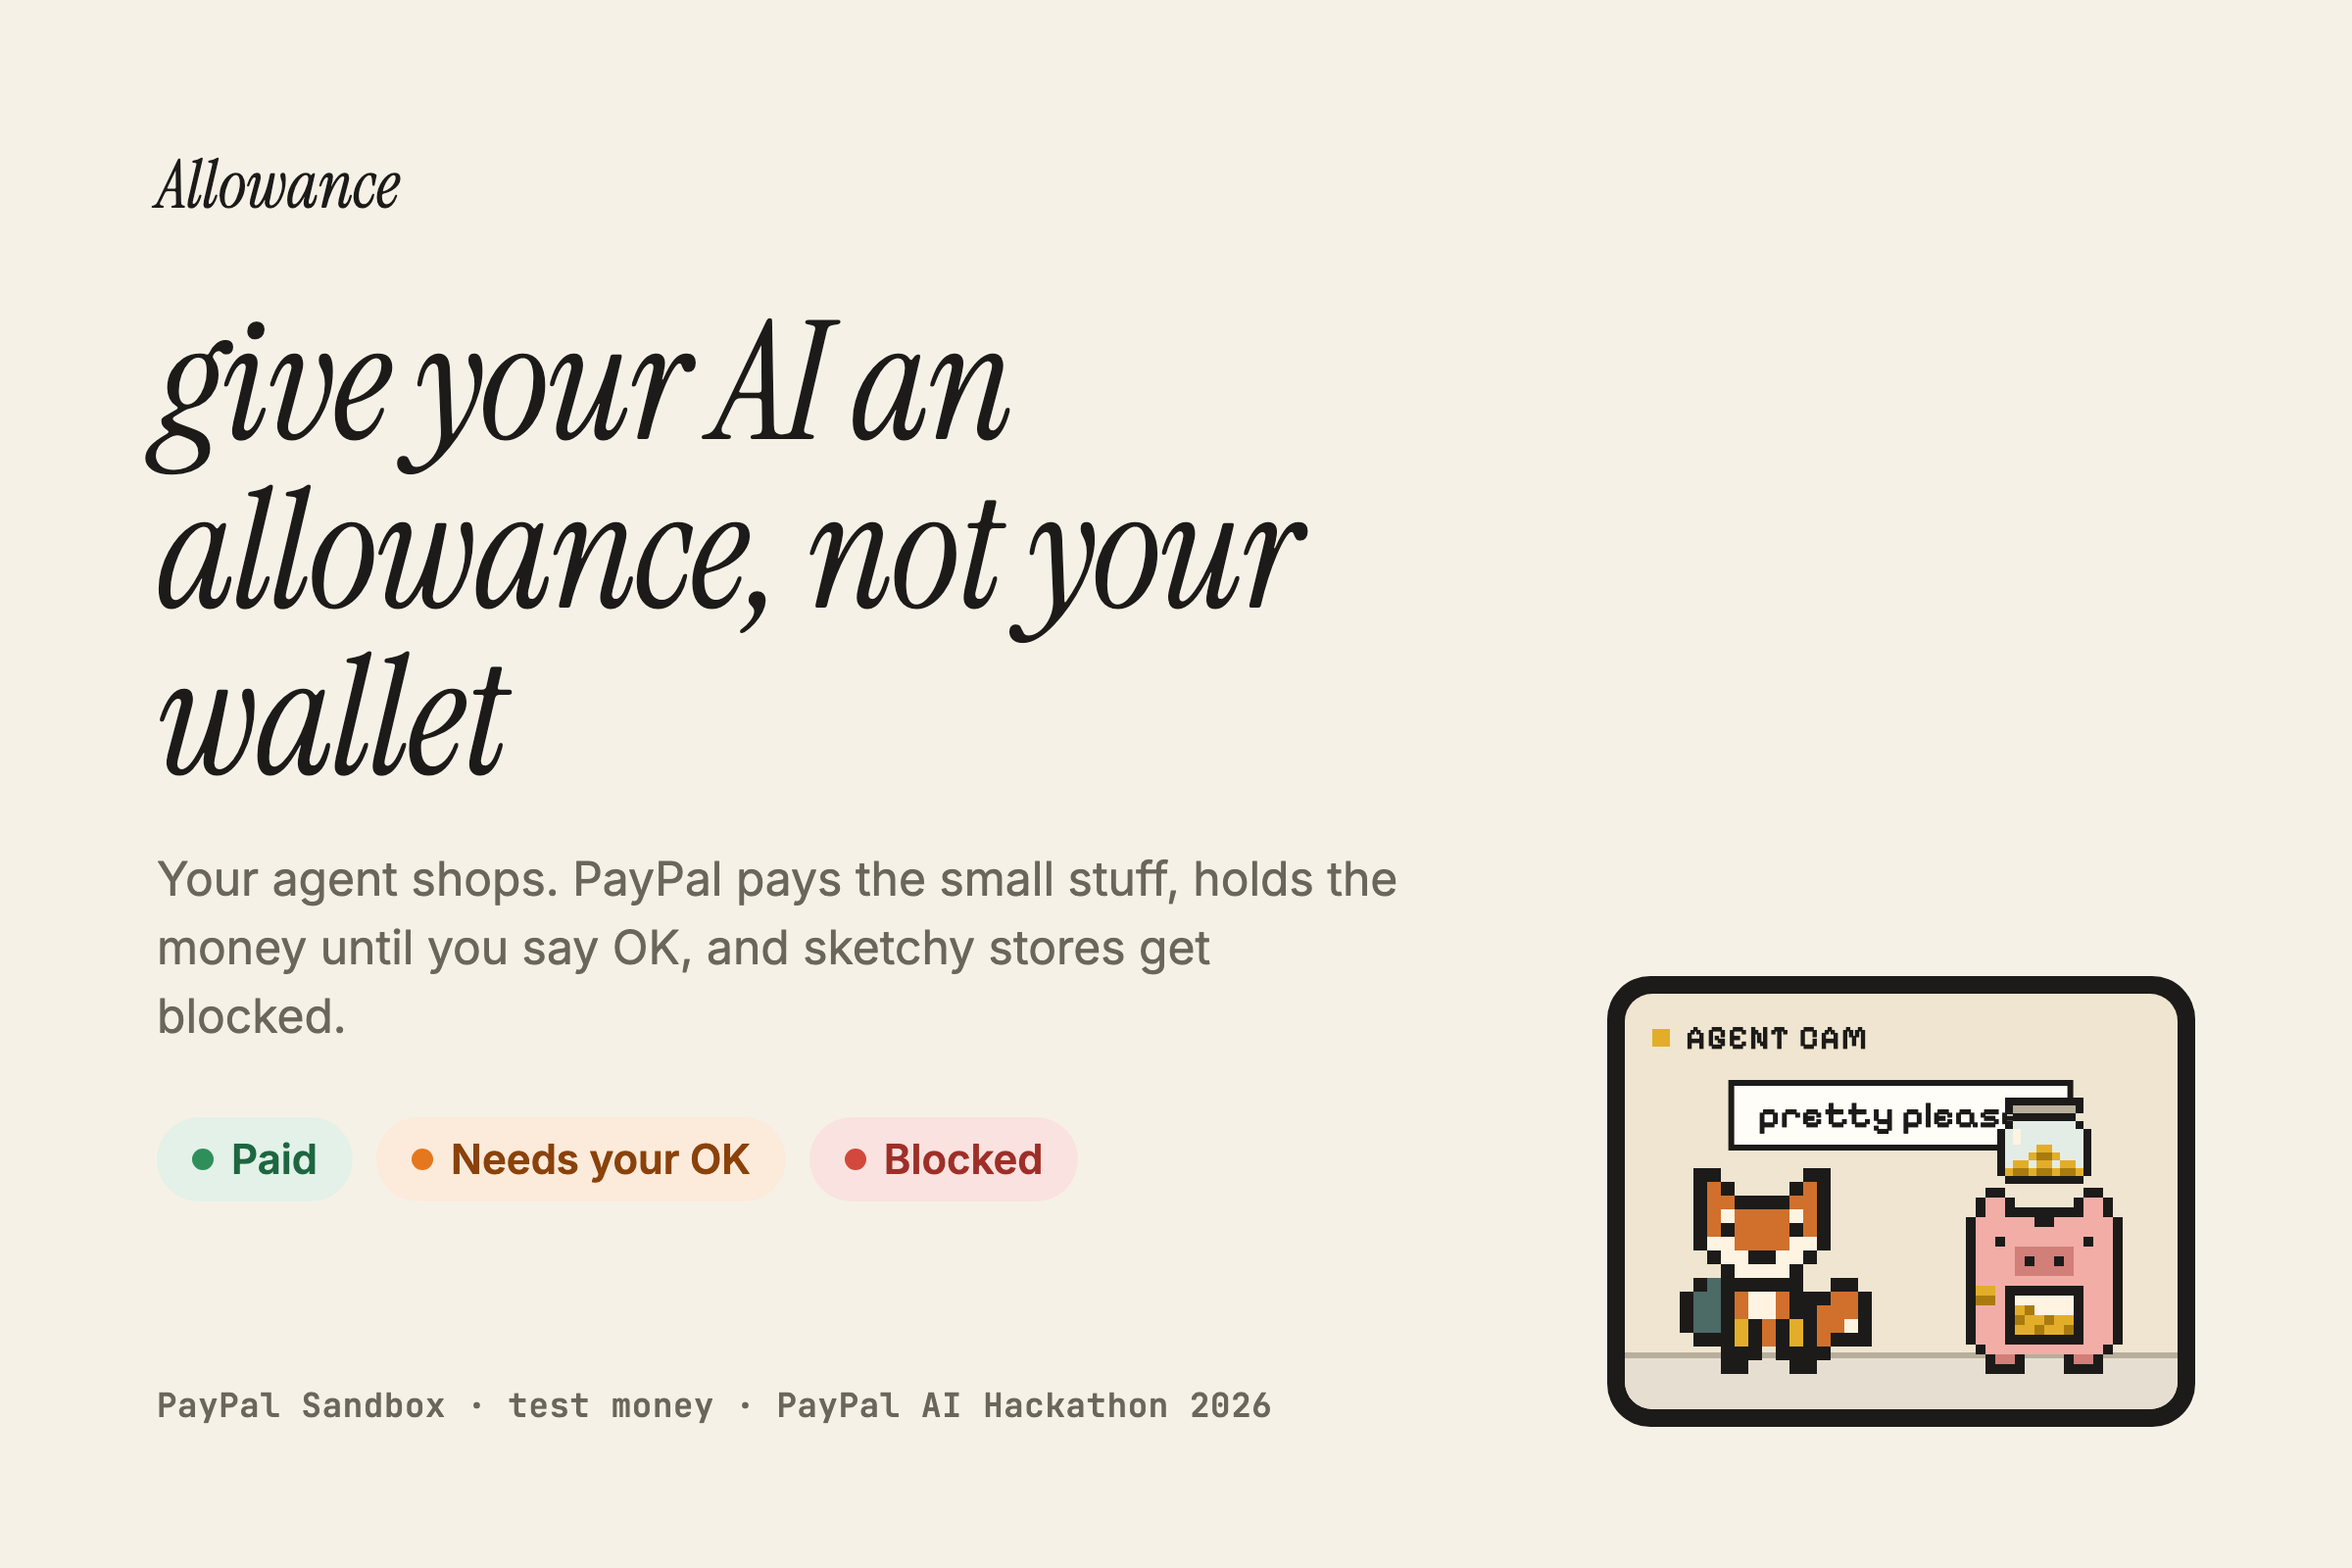
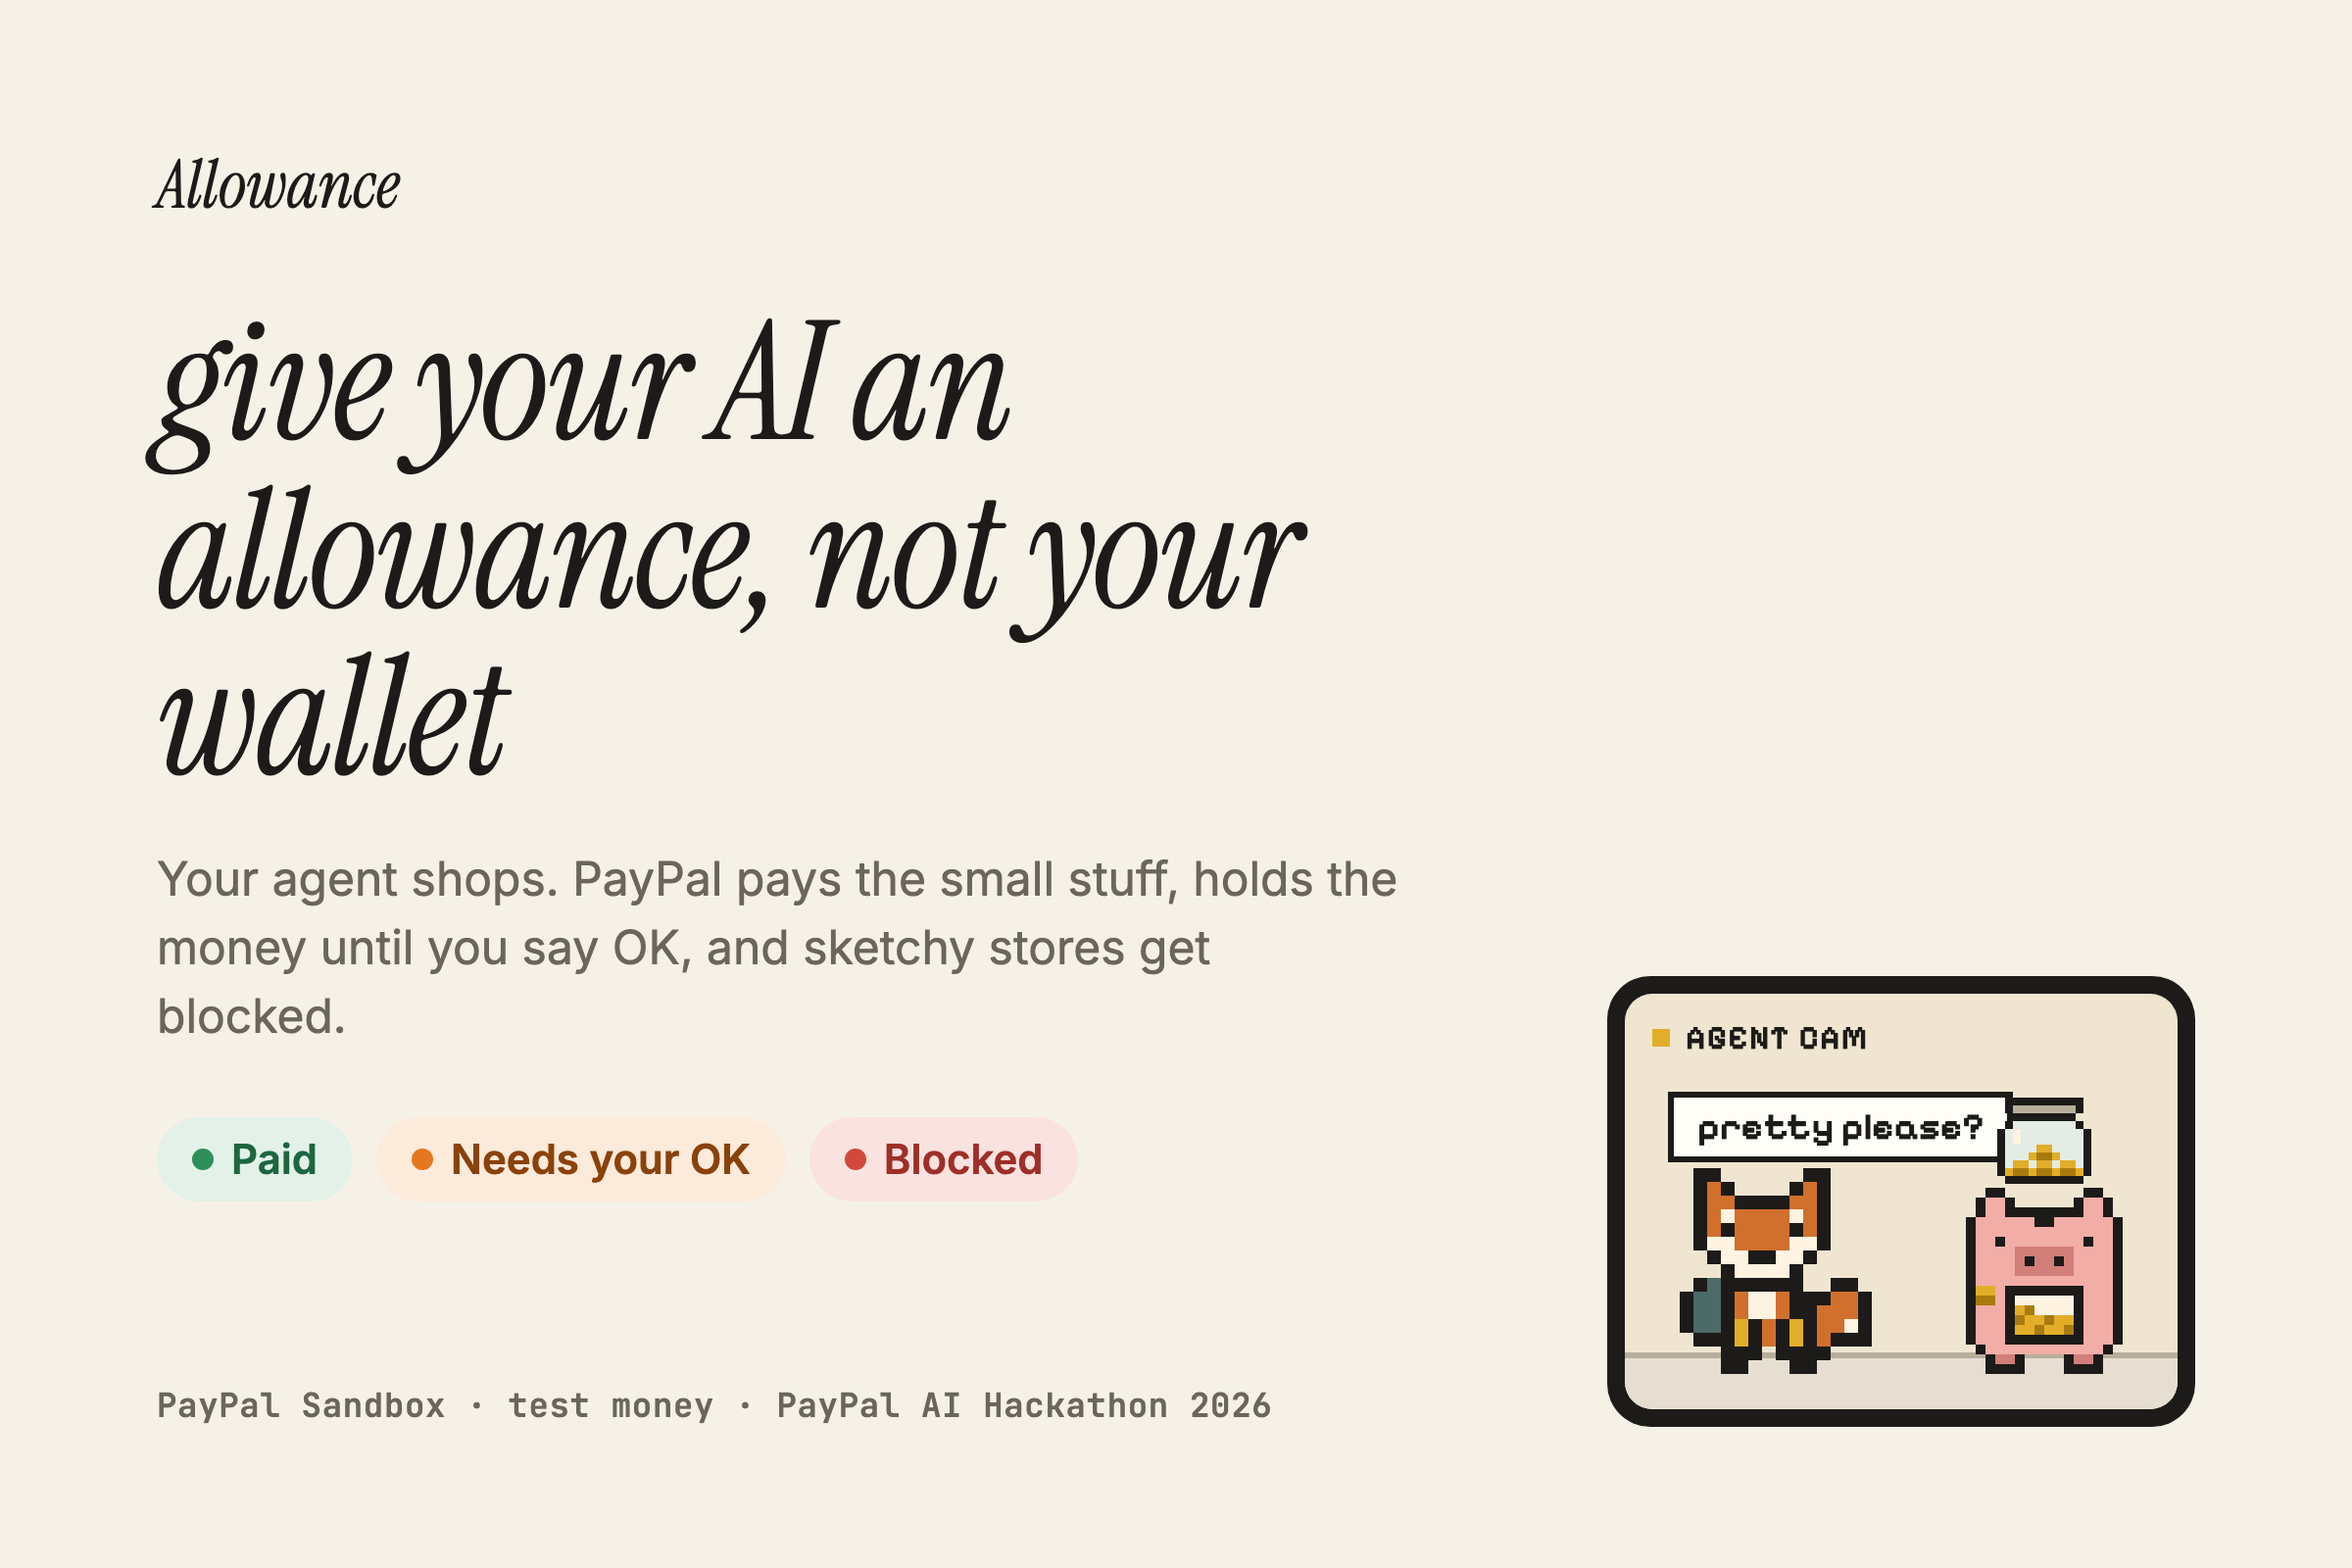
Thumbnail: move the speech bubble clear of the jar

Changed region(s): [[0.6875, 0.6875, 0.875, 0.75]]

diff --git a/scripts/thumbnail.ts b/scripts/thumbnail.ts
@@ -27,7 +27,7 @@ const html = `<!doctype html><html><head><meta charset="utf-8">
   .ground{position:absolute;left:0;right:0;bottom:0;height:26px;background:#E6DFD1;border-top:3px solid #B8AE9C}
   .cam{position:absolute;left:14px;top:12px;font-family:'Pixelify Sans',monospace;font-weight:600;font-size:17px;color:#1C1B19;letter-spacing:.04em;display:flex;gap:8px;align-items:center}
   .cam i{display:inline-block;width:9px;height:9px;background:#E2AE2A}
-  .bubble{position:absolute;top:44px;left:50%;transform:translateX(-50%);background:#FFFDF8;border:3px solid #1C1B19;padding:4px 12px;font-family:'Pixelify Sans',monospace;font-size:19px;white-space:nowrap}
+  .bubble{position:absolute;top:50px;left:22px;background:#FFFDF8;border:3px solid #1C1B19;padding:4px 12px;font-family:'Pixelify Sans',monospace;font-size:19px;white-space:nowrap}
   .paypal{position:absolute;left:80px;bottom:72px;font-family:'JetBrains Mono',monospace;font-size:17px;color:#6B665C;letter-spacing:.02em}
 </style></head><body><div class="wrap">
   <div class="brand">Allowance</div>
